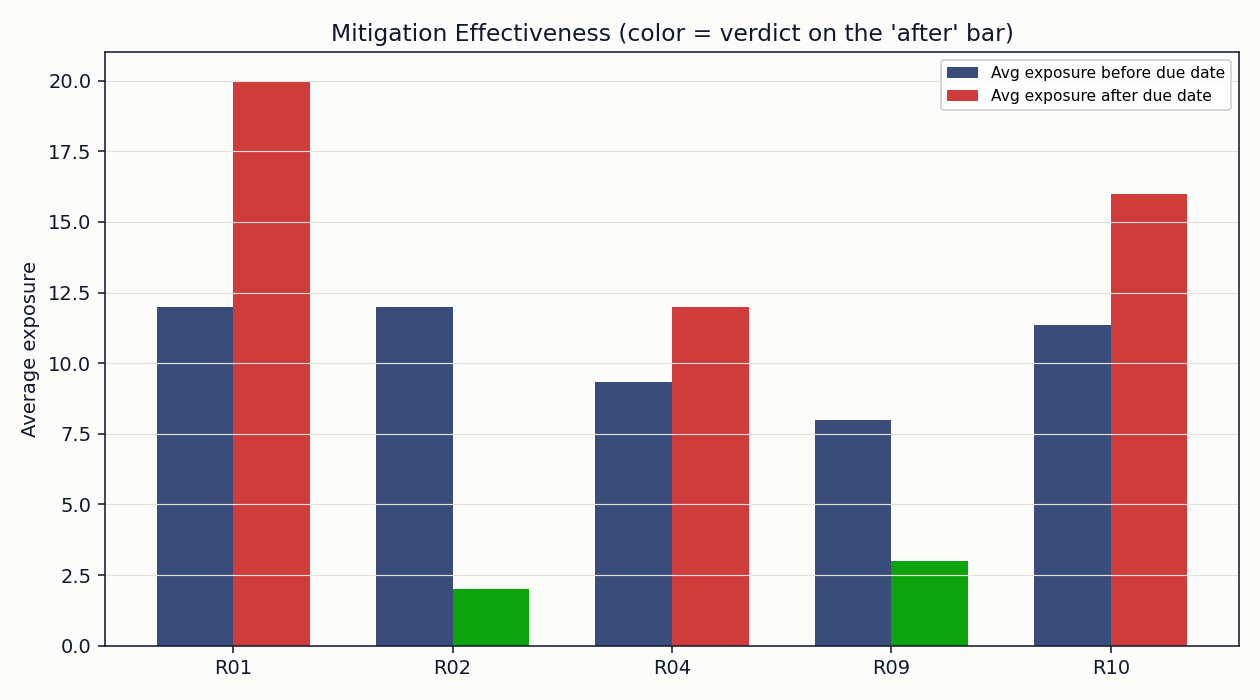
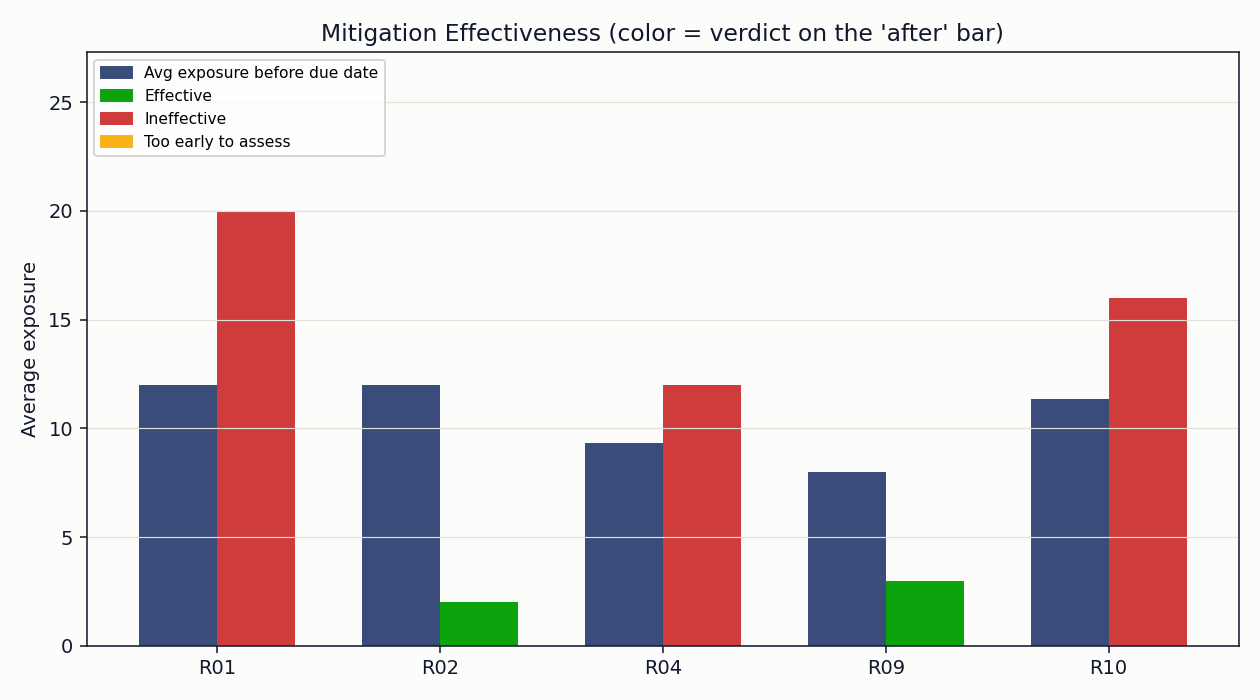
Add legend for status-colored chart

diff --git a/risk_tracker.py b/risk_tracker.py
@@ -137,16 +137,18 @@ def chart_effectiveness(effectiveness) -> None:
     fig, ax = plt.subplots(figsize=(9, 5))
     x = range(len(ranked))
     width = 0.35
-    ax.bar([i - width / 2 for i in x], ranked["avg_exposure_before"], width,
-           label="Avg exposure before due date", color=BASELINE)
+    ax.bar([i - width / 2 for i in x], ranked["avg_exposure_before"], width, color=BASELINE)
     colors = [VERDICT_COLORS[v] for v in ranked["verdict"]]
-    ax.bar([i + width / 2 for i in x], ranked["avg_exposure_after"], width,
-           label="Avg exposure after due date", color=colors)
+    ax.bar([i + width / 2 for i in x], ranked["avg_exposure_after"], width, color=colors)
     ax.set_xticks(list(x))
     ax.set_xticklabels(ranked["risk_id"])
     ax.set_ylabel("Average exposure")
     ax.set_title("Mitigation Effectiveness (color = verdict on the 'after' bar)")
-    ax.legend(fontsize=8)
+    ymin, ymax = ax.get_ylim()
+    ax.set_ylim(ymin, ymax * 1.3)  # headroom so the legend doesn't sit on top of the tallest bar
+    handles = [plt.Rectangle((0, 0), 1, 1, color=BASELINE, label="Avg exposure before due date")]
+    handles += [plt.Rectangle((0, 0), 1, 1, color=c, label=k) for k, c in VERDICT_COLORS.items()]
+    ax.legend(handles=handles, loc="upper left", fontsize=8)
     ax.grid(color=GRID, linewidth=0.6, axis="y")
     _apply_chrome(fig, ax)
     fig.tight_layout()
